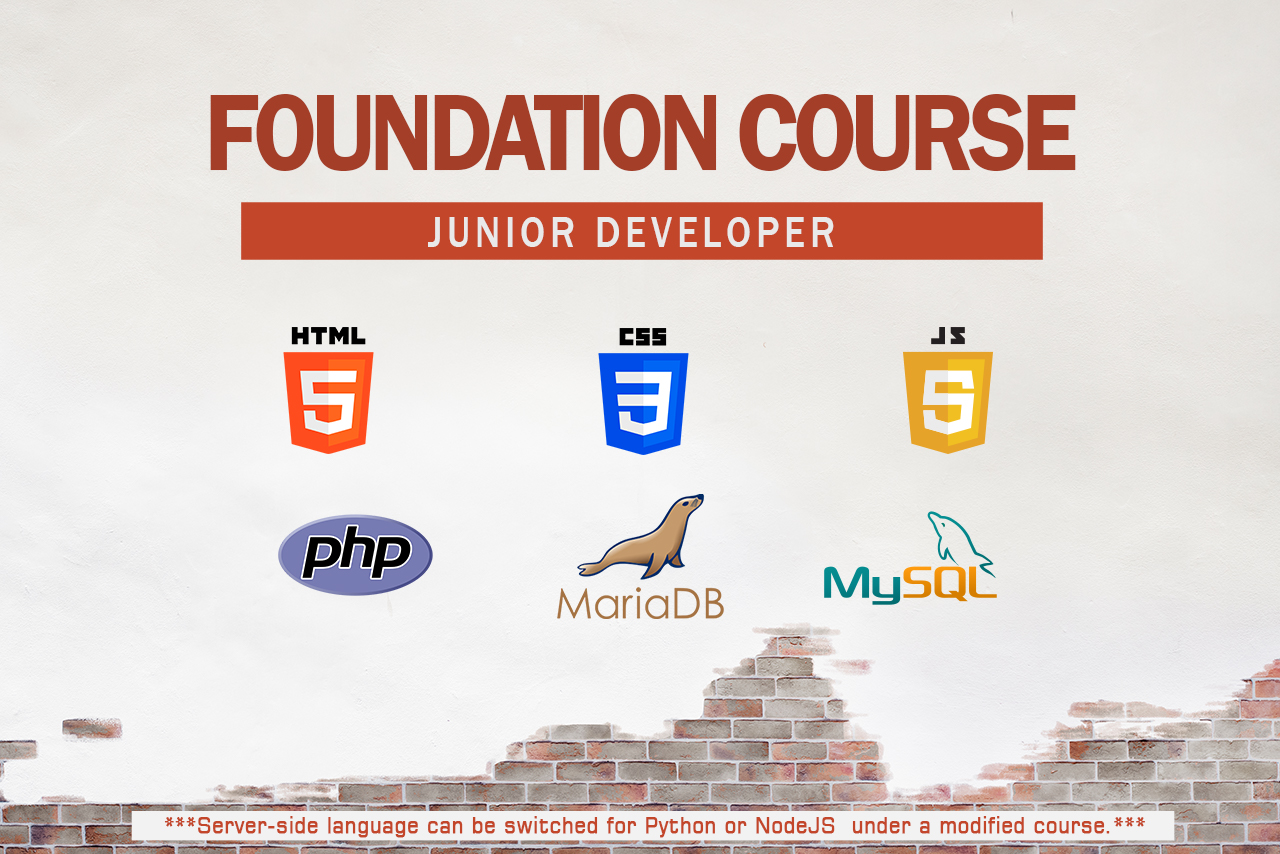
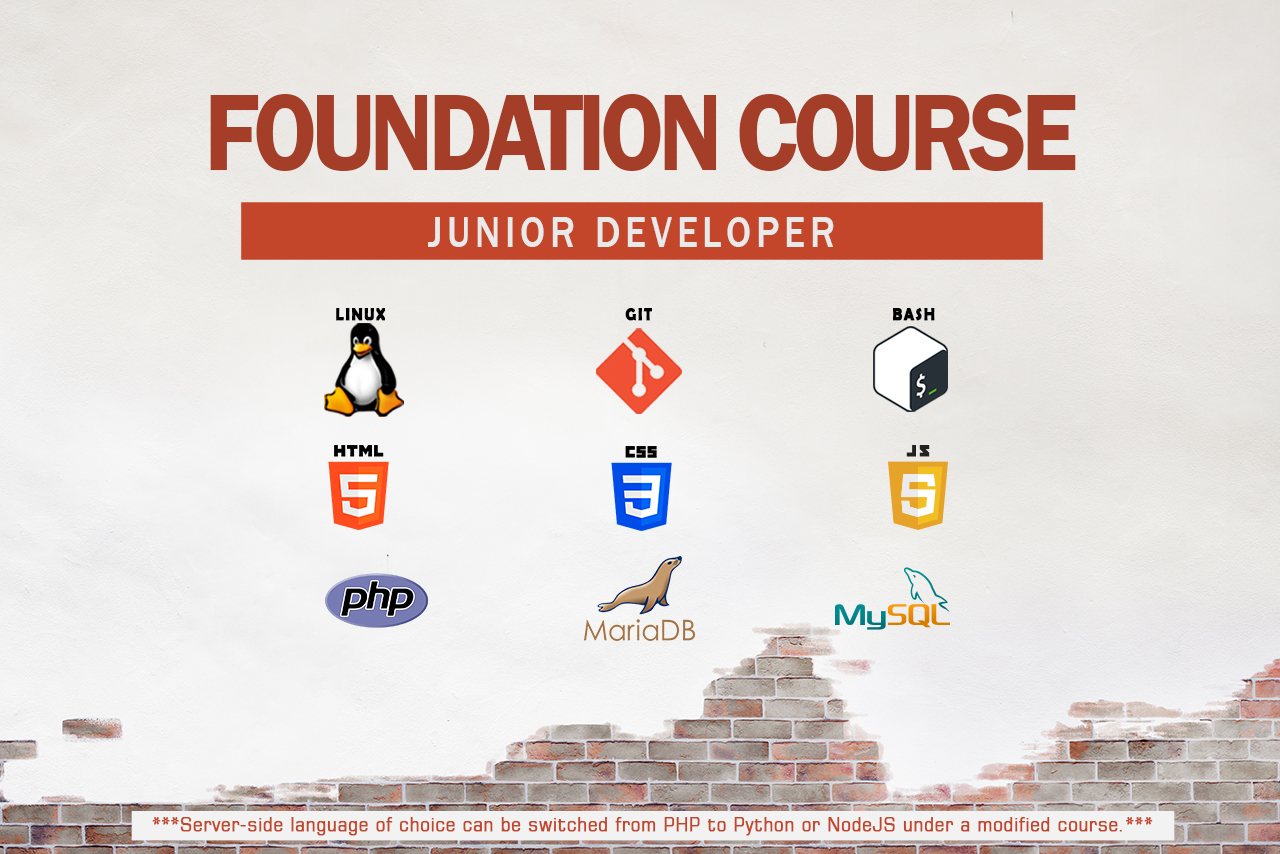
Minor text edit + image update

diff --git a/_courses/software-engineering-foundation.md b/_courses/software-engineering-foundation.md
@@ -17,9 +17,9 @@ instructor_id: 1
 ---
 
 ## Objective
-The foundation course is designed to provide a solid introduction to the world of Software Engineering by exposing participants to core concepts, knowledge and skills required to succeed as Software Engineers. In addition, students learn how to build web applications using HTML/CSS/JavaScript, the PHP server-side language, and the MySQL/MariaDB relational database management system. The course is concluded with students deploying a fully functional PHP web application to a cloud-based Linux server. Upon completing this course, students should be able to comfortably start/grow their careers as a Junior Developer specializing in building database-driven PHP web applications.
+The foundation course is designed to provide a solid introduction to the world of Software Engineering by exposing participants to core concepts, knowledge and skills required to succeed as Software Engineers. In addition, students learn how to build web applications using HTML/CSS/JavaScript, the PHP server-side language [§], and the MySQL/MariaDB relational database management system. The course is concluded with students deploying a fully functional PHP web application to a cloud-based Linux server. Upon completing this course, students should be able to comfortably start/grow their careers as a Junior Developer specializing in building database-driven PHP web applications.
 
-**Please note that the server-side language of choice can be switched from PHP to Python or NodeJS under a modified course**. Kindly contact us for more information about this option.
+[§] **Please note that the server-side language of choice can be switched from PHP to Python or NodeJS under a modified course**. Kindly contact us for more information about this option.
 
 <a target="_blank" href="https://tinyurl.com/6kmnrzc6">Click here to register</a>
 
